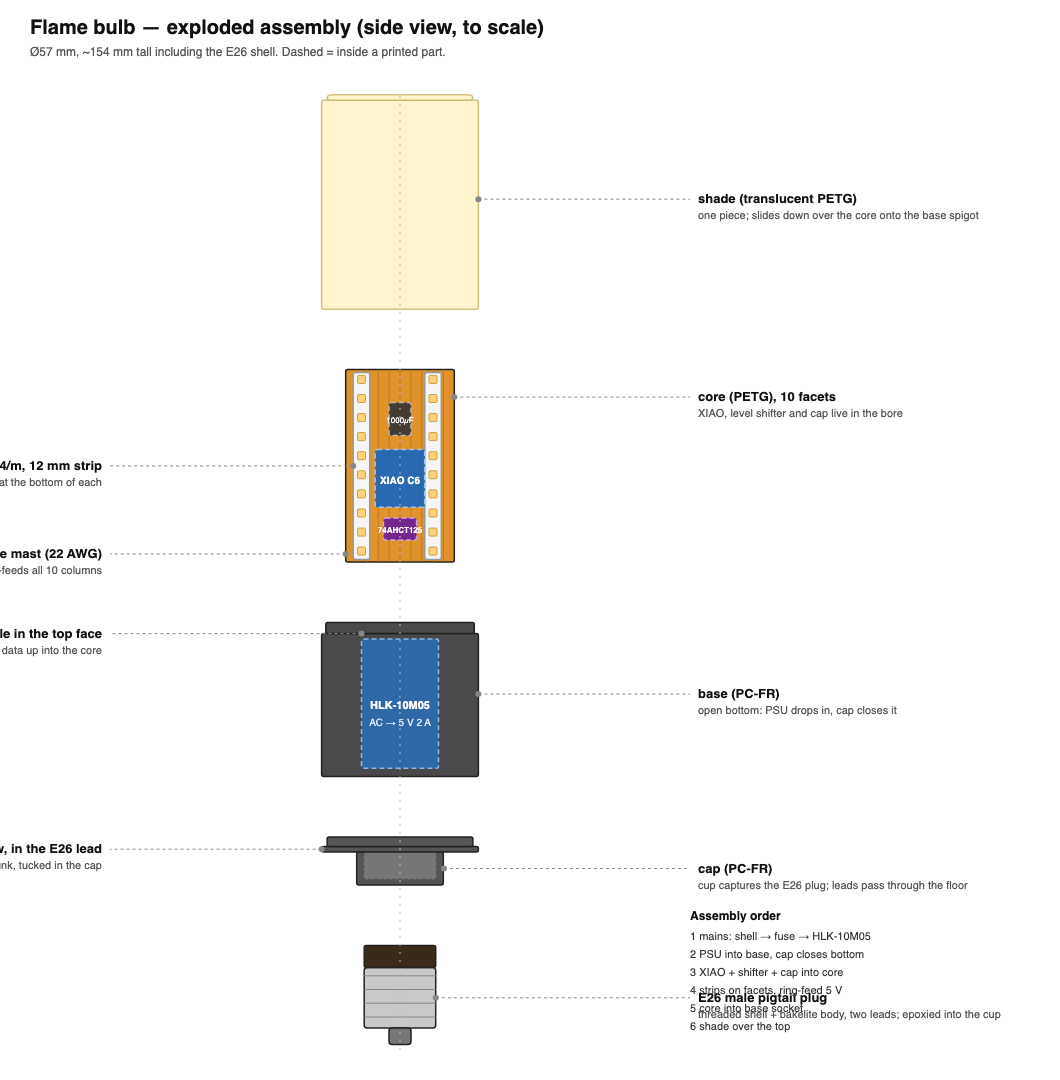
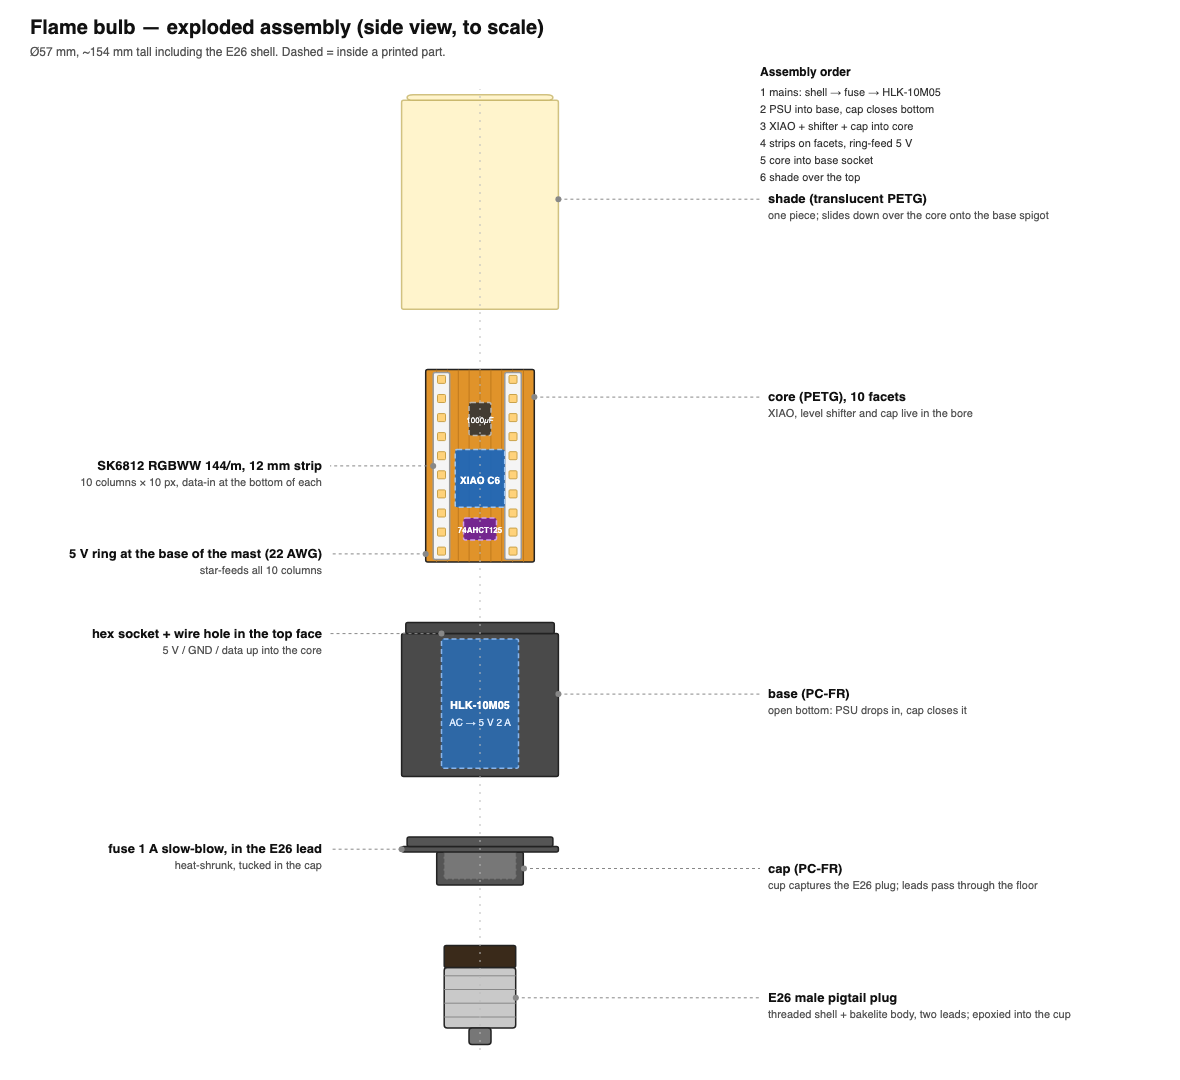
Flame bulb exploded diagram: wider margins, steps moved clear of callouts
Claude-Session: https://claude.ai/code/session_01HB7AjFiE1eQpQDTaRniowe

diff --git a/docs/flame-bulb-exploded.py b/docs/flame-bulb-exploded.py
@@ -1,9 +1,9 @@
 # Generates flame-bulb-exploded.svg: side-view exploded assembly with the
 # electronics, drawn to scale (S px/mm) with exploded gaps between parts.
 S = 2.75                     # px per mm
-CX = 400                    # part centreline x
+CX = 480                    # part centreline x
 GAP = 22                     # exploded gap, mm
-W, H = 1060, 1080
+W, H = 1180, 1080
 o = []
 def a(s): o.append(s)
 def X(mm): return CX + mm*S
@@ -14,7 +14,7 @@ def text(x, y, s, size=13, anchor="start", c="#222", w="normal"):
     a(f'<text x="{x:.1f}" y="{y:.1f}" font-size="{size}" text-anchor="{anchor}" fill="{c}" font-weight="{w}">{s}</text>')
 def leader(from_mm_x, y_mm, label, sub="", side="r"):
     x0 = X(from_mm_x); y0 = Y(y_mm)
-    x1 = 690 if side == "r" else 110
+    x1 = 760 if side == "r" else 330
     a(f'<line x1="{x0:.1f}" y1="{y0:.1f}" x2="{x1}" y2="{y0:.1f}" stroke="#888" stroke-width="1" stroke-dasharray="3 3"/>')
     a(f'<circle cx="{x0:.1f}" cy="{y0:.1f}" r="3" fill="#888"/>')
     text(x1 + (8 if side=="r" else -8), y0 + 4, label, 13, "start" if side=="r" else "end", "#111", "bold")
@@ -83,8 +83,8 @@ text(30, 34, "Flame bulb — exploded assembly (side view, to scale)", 20, "star
 text(30, 56, "Ø57 mm, ~154 mm tall including the E26 shell. Dashed = inside a printed part.", 12, "start", "#555")
 # assembly order strip
 steps = ["1 mains: shell → fuse → HLK-10M05", "2 PSU into base, cap closes bottom", "3 XIAO + shifter + cap into core", "4 strips on facets, ring-feed 5 V", "5 core into base socket", "6 shade over the top"]
-text(690, H-160, "Assembly order", 12, "start", "#111", "bold")
-for i, s in enumerate(steps): text(690, H-140 + i*18, s, 11, "start", "#333")
+text(760, 76, "Assembly order", 12, "start", "#111", "bold")
+for i, s in enumerate(steps): text(760, 96 + i*17, s, 11, "start", "#333")
 a(f'<line x1="{X(0):.1f}" y1="{Y(BOT-8):.1f}" x2="{X(0):.1f}" y2="{Y(sh_y+80):.1f}" stroke="#bbb" stroke-width="1" stroke-dasharray="2 6"/>')  # centreline
 svg = f'<svg xmlns="http://www.w3.org/2000/svg" width="{W}" height="{H}" viewBox="0 0 {W} {H}" font-family="Helvetica, Arial, sans-serif"><rect width="100%" height="100%" fill="#fff"/>' + "".join(o) + "</svg>"
 open("flame-bulb-exploded.svg", "w").write(svg)
